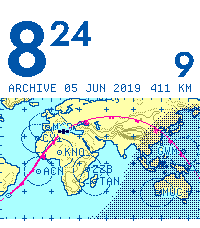
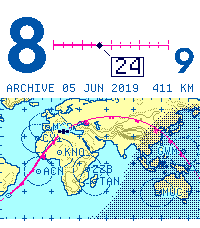
Move the minute into a radar-style data block; add dates
The minute no longer sits beside the hour. The body's place on the route
gives the analog reading. A leader line ties it to a boxed data block
with the minute in Departure Mono digits; the block can be switched off.
On the ISS band the hour runs on a railway track between its figures,
with the same data block. Zoomed views print the local date and its
day of the year in the margin.

Claude-Session: https://claude.ai/code/session_013jrbqnwLffJYPYurYaCgSZ

diff --git a/src/enroute-render.js b/src/enroute-render.js
@@ -43,7 +43,7 @@ const EARTH=6371,ORBIT=410,MASK=5*RAD;
 export const ACQUISITION=(Math.acos(EARTH*Math.cos(MASK)/(EARTH+ORBIT))-MASK)/RAD;
 export const FIGURE={hour:80,hourTwo:72,minute:36,next:36};
 // Chart lettering: Departure Mono, drawn on the display's own pixel grid.
-const LABEL=departure.regular;
+const LABEL=departure.regular,TAG=departure.double;
 
 function plot(buf,x,y,c){x=Math.round(x);y=Math.round(y);if(x<0||y<0||x>=W||y>=H)return;const i=(y*W+x)*3;buf[i]=c[0];buf[i+1]=c[1];buf[i+2]=c[2];}
 function segment(a,b,fn){
@@ -99,7 +99,7 @@ export function contourLevel(relief,land,i){
 
 const BAYER=[0,8,2,10,12,4,14,6,3,11,1,9,15,7,13,5];
 const HEXAGON=['..###..','.#...#.','#.....#','.#...#.','..###..'],TRIANGLE=['....#....','...#.#...','...#.#...','..#...#..','..#...#..','.#.....#.','#########'];
-export function renderEnroute({camera,ground,relief,light:zones,plate,epoch,timeZone,clock24}){
+export function renderEnroute({camera,ground,relief,light:zones,plate,epoch,timeZone,clock24,tag=true}){
   const pal=PLATES[plate],buf=new Uint8ClampedArray(W*H*3),mat=ground.material,sun=position('sun',Math.floor(epoch/MINUTE)*MINUTE).dir;
   const light=pal.night==='screen'?new Uint8Array(W*H):zones,land=mat.map(m=>m===LAND?1:0);
   const zoneAt=(x,y)=>light[Math.max(0,Math.min(H-1,Math.round(y)))*W+Math.max(0,Math.min(W-1,Math.round(x)))];
@@ -196,53 +196,88 @@ export function renderEnroute({camera,ground,relief,light:zones,plate,epoch,time
   }));
   symbol(HEXAGON,c0.x,c0.y);plot(buf,c0.x,c0.y,col(c0.x,c0.y));symbol(TRIANGLE,c1.x,c1.y-1);
   // The present: the body's own symbol on a knockout.
-  const body=position(camera.body,epoch),p=camera.project(body.lat,body.lon),mx=Math.round(p.x),my=Math.round(p.y),mk=ink('mark')(mx,my);
-  const disc=(r,fn)=>{const n=Math.ceil(r);for(let dy=-n;dy<=n;dy++)for(let dx=-n;dx<=n;dx++)if(dx*dx+dy*dy<=r*r)fn(mx+dx,my+dy,dx,dy);};
-  disc(6.6,clear);
-  if(camera.body==='sun'){disc(5.2,(x,y,dx,dy)=>{if(dx*dx+dy*dy>3.6*3.6)plot(buf,x,y,mk);});disc(1.5,(x,y)=>plot(buf,x,y,mk));}
+  const body=position(camera.body,epoch),p=camera.project(body.lat,body.lon),mx=Math.round(p.x),my=Math.round(p.y);
+  const disc=(cx,cy,r,fn)=>{const n=Math.ceil(r);for(let dy=-n;dy<=n;dy++)for(let dx=-n;dx<=n;dx++)if(dx*dx+dy*dy<=r*r)fn(cx+dx,cy+dy,dx,dy);};
+  const mk=ink('mark')(mx,my);
+  disc(mx,my,6.6,clear);
+  if(camera.body==='sun'){disc(mx,my,5.2,(x,y,dx,dy)=>{if(dx*dx+dy*dy>3.6*3.6)plot(buf,x,y,mk);});disc(mx,my,1.5,(x,y)=>plot(buf,x,y,mk));}
   else if(camera.body==='moon'){
     // The Moon in its calculated phase; a rim keeps a new Moon visible.
     const {fraction,waxing}=moonLight(epoch),r=5.2;
-    disc(r,(x,y,dx,dy)=>{const edge=Math.sqrt(Math.max(0,r*r-dy*dy)),side=waxing?dx:-dx;if(side>=(1-2*fraction)*edge||dx*dx+dy*dy>(r-1.2)**2)plot(buf,x,y,mk);});
+    disc(mx,my,r,(x,y,dx,dy)=>{const edge=Math.sqrt(Math.max(0,r*r-dy*dy)),side=waxing?dx:-dx;if(side>=(1-2*fraction)*edge||dx*dx+dy*dy>(r-1.2)**2)plot(buf,x,y,mk);});
   }else{
     for(let k=-5;k<=5;k++){plot(buf,mx+k,my,mk);if(Math.abs(k)>=3){plot(buf,mx+k,my-1,mk);plot(buf,mx+k,my+1,mk);}}
     for(let k=-2;k<=2;k++)for(let d=-1;d<=1;d++)plot(buf,mx+d,my+k,mk);
   }
-  // The time, set like a chart's maximum elevation figure: the hour large,
-  // its minutes raised and small. The next hour stands over its point.
+  // The hours stand over their stations: this hour large, the next smaller.
   const parts=clockParts(epoch,timeZone),h=Number(parts.h),hour=String(clock24?h:h%12||12),next=String(clock24?(h+1)%24:(h+1)%12||12);
-  const big=hour.length>1?FIGURE.hourTwo:FIGURE.hour,gap=4,width=runWidth(hour,big)+gap+runWidth(parts.m,FIGURE.minute);
-  const gx=Math.max(8,Math.min(W-8-width,Math.round(c0.x-runWidth(hour,big)/2)));
-  const gy=camera.world?Math.round((top-runHeight(big))/2):c0.y-26-runHeight(big);
-  const hourPixels=figurePixels(hour,big,gx,gy),minutePixels=figurePixels(parts.m,FIGURE.minute,gx+runWidth(hour,big)+gap,gy);
-  letter([...hourPixels,...minutePixels],ink('ink'));
-  const nw=runWidth(next,FIGURE.next),nx=Math.max(6,Math.min(W-6-nw,Math.round(c1.x-nw/2)));
-  const ny=camera.world?gy+runHeight(big)-runHeight(FIGURE.next):c1.y-10-runHeight(FIGURE.next);
-  const nextPixels=figurePixels(next,FIGURE.next,nx,ny);letter(nextPixels,ink('ink'));
-  // The ISS is an archived orbit: say so, with its altitude, in the margin.
+  const big=hour.length>1?FIGURE.hourTwo:FIGURE.hour,hw=runWidth(hour,big),nw=runWidth(next,FIGURE.next);
+  const gx=Math.max(8,Math.min(W-8-hw,Math.round(c0.x-hw/2))),gy=camera.world?Math.round((top-runHeight(big))/2)-4:c0.y-26-runHeight(big);
+  const nx=Math.max(6,Math.min(W-6-nw,Math.round(c1.x-nw/2))),ny=camera.world?gy+runHeight(big)-runHeight(FIGURE.next):c1.y-10-runHeight(FIGURE.next);
+  const hourPixels=figurePixels(hour,big,gx,gy),nextPixels=figurePixels(next,FIGURE.next,nx,ny);
+  letter(hourPixels,ink('ink'));letter(nextPixels,ink('ink'));
+  // The minute rides with the body in a data block, as a radar display tags
+  // a target: a leader line from the symbol to a boxed readout. It points
+  // toward the middle of the screen so it never leaves the chart.
+  let tagBox=null;
+  const dataBlock=(ax,ay,down,color,reach=12)=>{
+    const text=parts.m,tw=textWidth(TAG,text),bw=tw+5,bh=20,side=ax>W/2?-1:1;
+    const ex=ax+side*Math.min(reach,12),ey=ay+(down?reach:-reach),bx=side>0?ex:ex-bw+1,by=down?ey:ey-bh+1;
+    const box={x:Math.max(2,Math.min(W-2-bw,bx)),y:by,w:bw,h:bh};
+    segment({x:ax+side*5,y:ay+(down?5:-5)},{x:ex,y:ey},(x,y)=>{clear(x+1,y);clear(x-1,y);});
+    segment({x:ax+side*5,y:ay+(down?5:-5)},{x:ex,y:ey},(x,y)=>plot(buf,x,y,color));
+    for(let y=box.y-1;y<=box.y+box.h;y++)for(let x=box.x-1;x<=box.x+box.w;x++)clear(x,y);
+    for(let x=box.x;x<box.x+box.w;x++){plot(buf,x,box.y,color);plot(buf,x,box.y+box.h-1,color);}
+    for(let y=box.y;y<box.y+box.h;y++){plot(buf,box.x,y,color);plot(buf,box.x+box.w-1,y,color);}
+    for(const [a,b] of textPixels(TAG,text,box.x+3,box.y+box.h-3))plot(buf,a,b,color);
+    tagBox=box;
+  };
   if(camera.world){
-    const date=new Date(epoch),month='JAN FEB MAR APR MAY JUN JUL AUG SEP OCT NOV DEC'.split(' ')[date.getUTCMonth()];
-    const archive=`ARCHIVE ${String(date.getUTCDate()).padStart(2,'0')} ${month} ${date.getUTCFullYear()}`,altitude=`${Math.round(body.altitude)} KM`;
-    letter(textPixels(LABEL,archive,8,top-6),()=>pal.spaceInk,0);
-    letter(textPixels(LABEL,altitude,W-8-textWidth(LABEL,altitude),top-6),()=>pal.spaceInk,0);
+    // The ISS hour as a railway between its two figures: ties every five
+    // minutes, bold where the hour has run, a diamond at the present.
+    const left=Math.min(gx+hw,nx+nw)+7,right=Math.max(gx,nx)-7,ty=gy+Math.round(runHeight(big)/2),forward=nx>gx;
+    const f=Math.max(0,Math.min(1,(epoch-s0.epoch)/(60*MINUTE))),at=m=>forward?left+(right-left)*m/60:right-(right-left)*m/60;
+    const tx=Math.round(at(f*60)),rc=ink('route');
+    for(let x=left;x<=right;x++){plot(buf,x,ty,rc(x,ty));if(forward?x<=tx:x>=tx)plot(buf,x,ty-1,rc(x,ty));}
+    for(let m=0;m<=60;m+=5){const x=Math.round(at(m)),len=m%15===0?4:2;for(let d=1;d<=len;d++){plot(buf,x,ty-1-d,rc(x,ty));plot(buf,x,ty+d,rc(x,ty));}}
+    for(let dy=-3;dy<=3;dy++)for(let dx=-3;dx<=3;dx++){const r=Math.abs(dx)+Math.abs(dy);if(r<=4)clear(tx+dx,ty+dy);if(r<=3)plot(buf,tx+dx,ty+dy,mk);}
+    if(tag)dataBlock(tx,ty,true,ink('mark')(tx,ty));
+  }else if(tag)dataBlock(mx,my,true,mk,20);
+  // Margins: the ISS archive and altitude; otherwise the date in the chart's
+  // own terms, with the day of the year as mission control kept it.
+  const margin=(l,r,y,color)=>{letter(textPixels(LABEL,l,6,y),color,1);letter(textPixels(LABEL,r,W-6-textWidth(LABEL,r),y),color,1);};
+  const MONTHS='JAN FEB MAR APR MAY JUN JUL AUG SEP OCT NOV DEC'.split(' ');
+  if(camera.world){
+    const date=new Date(epoch);
+    margin(`ARCHIVE ${String(date.getUTCDate()).padStart(2,'0')} ${MONTHS[date.getUTCMonth()]} ${date.getUTCFullYear()}`,`${Math.round(body.altitude)} KM`,top-6,()=>pal.spaceInk);
+  }else{
+    const d=localDate(epoch,timeZone);
+    margin(`${String(d.day).padStart(2,'0')} ${MONTHS[d.month-1]} ${d.year}`,`DAY ${String(d.dayOfYear).padStart(3,'0')}`,H-5,ink('ink'));
   }
   return {buf,marker:{x:p.x,y:p.y,lat:body.lat,lon:body.lon},stations,
-    figure:{hour,minute:parts.m,next,box:bounds([...hourPixels,...minutePixels]),nextBox:bounds(nextPixels)},rose:camera.world?null:{...c0,r:20}};
+    figure:{hour,minute:parts.m,next,box:bounds(hourPixels),nextBox:bounds(nextPixels),tag:tagBox},rose:camera.world?null:{...c0,r:20}};
+}
+// The calendar date where the watch is, and its day of the year.
+const dateFormats=new Map();
+export function localDate(epoch,timeZone){
+  if(!dateFormats.has(timeZone))dateFormats.set(timeZone,new Intl.DateTimeFormat('en-GB',{timeZone,year:'numeric',month:'numeric',day:'numeric'}));
+  const parts=Object.fromEntries(dateFormats.get(timeZone).formatToParts(new Date(epoch)).map(p=>[p.type,Number(p.value)]));
+  return {year:parts.year,month:parts.month,day:parts.day,dayOfYear:Math.round((Date.UTC(parts.year,parts.month-1,parts.day)-Date.UTC(parts.year,0,0))/86400000)};
 }
 
 // Caches follow the clock: map and relief by the hour, light by the minute.
 export class EnrouteRenderer{
   constructor(atlas,meters){this.atlas=atlas;this.meters=meters;this.stats={geometryBuilds:0,lightBuilds:0,renders:0};}
   render(state){
-    const {body,epoch,timeZone,clock24,plate}=state,start=civilHour(epoch,timeZone);
+    const {body,epoch,timeZone,clock24,plate}=state,tag=state.tag!==false,start=civilHour(epoch,timeZone);
     const geometryKey=`${body}/${start}`,lightKey=`${geometryKey}/${Math.floor(epoch/MINUTE)}`;
     if(this.geometryKey!==geometryKey){
       this.camera=chartCamera(body,start);this.ground=groundLayer(this.camera,this.atlas);this.relief=reliefLayer(this.camera,this.meters);
       this.geometryKey=geometryKey;this.stats.geometryBuilds++;
     }
     if(this.lightKey!==lightKey){this.light=lightLayer(this.ground,epoch);this.lightKey=lightKey;this.stats.lightBuilds++;}
-    const sceneKey=`${lightKey}/${timeZone}/${clock24}/${plate}`;if(this.sceneKey===sceneKey)return this.last;
-    const out=renderEnroute({camera:this.camera,ground:this.ground,relief:this.relief,light:this.light,plate,epoch,timeZone,clock24});
+    const sceneKey=`${lightKey}/${timeZone}/${clock24}/${plate}/${tag}`;if(this.sceneKey===sceneKey)return this.last;
+    const out=renderEnroute({camera:this.camera,ground:this.ground,relief:this.relief,light:this.light,plate,epoch,timeZone,clock24,tag});
     const zones=[0,0,0];for(const z of this.light)zones[z]++;
     this.sceneKey=sceneKey;this.stats.renders++;
     const rgba=new Uint8ClampedArray(W*H*4);for(let i=0;i<W*H;i++){rgba.set(out.buf.subarray(i*3,i*3+3),i*4);rgba[i*4+3]=255;}

diff --git a/index.html b/index.html
@@ -9,9 +9,9 @@
 <fieldset><legend>Follow</legend><div class="segmented"><button data-body="sun" aria-pressed="true">Sun</button><button data-body="moon" aria-pressed="false">Moon</button><button data-body="iss" aria-pressed="false">ISS archive</button></div><p class="help" id="body-note"></p></fieldset>
 <fieldset id="moon-light"><legend>Moonlight</legend><div class="segmented"><button data-observation="day" aria-pressed="true">By day</button><button data-observation="dusk" aria-pressed="false">Nightfall</button><button data-observation="night" aria-pressed="false">By night</button></div><p class="help">The same Moon over three evenings. On the paper plates, night is a printed dot tint that deepens through civil twilight.</p></fieldset>
 <fieldset><legend>Plate</legend><div id="enroute-plates" class="theme-options"></div></fieldset>
-<fieldset><legend>Read the chart</legend><p class="help">The large figure is the hour and the raised figure its minutes, set like a chart’s maximum elevation figure. The compass rose marks this hour’s station; the open triangle is the next hour’s reporting point. The magenta line is the route, bold behind the marker and fine ahead, with the quarter hours marked. Contours fall every 1,000 m, dotted at 500 m; offshore, the dotted blue line is the 200 m edge of the continental shelf. Three-letter codes are the tracking stations of NASA’s Mercury and Apollo networks.</p></fieldset>
-<details class="art-options"><summary>Clock</summary><div><label class="select-label" for="enroute-zone">Clock zone<select id="enroute-zone"><option value="America/New_York">Eastern time</option><option value="UTC">UTC</option><option value="Europe/London">London</option><option value="Asia/Kolkata">Kolkata</option></select></label><label class="art-checkbox"><input type="checkbox" id="enroute-24"> 24-hour figures</label></div></details><div class="art-study-date"><span id="enroute-date"></span><span>FROZEN STUDY</span></div></aside></section>
+<fieldset><legend>Read the chart</legend><p class="help">The large figure is this hour and the small one the next. The symbol between them is the present: its place on the route is the minute, read like a hand. A leader line ties it to a boxed data block with the minute in digits, the way a radar display tags a target; it can be switched off under Clock. The compass rose marks this hour’s station; the open triangle is the next hour’s reporting point. The magenta line is the route, bold behind the marker and fine ahead, with the quarter hours marked. Contours fall every 1,000 m, dotted at 500 m; offshore, the dotted blue line is the 200 m edge of the continental shelf. Three-letter codes are the tracking stations of NASA’s Mercury and Apollo networks. The margin carries the date and its day of the year.</p></fieldset>
+<details class="art-options"><summary>Clock</summary><div><label class="select-label" for="enroute-zone">Clock zone<select id="enroute-zone"><option value="America/New_York">Eastern time</option><option value="UTC">UTC</option><option value="Europe/London">London</option><option value="Asia/Kolkata">Kolkata</option></select></label><label class="art-checkbox"><input type="checkbox" id="enroute-24"> 24-hour figures</label><label class="art-checkbox"><input type="checkbox" id="enroute-tag" checked> Minute data block</label></div></details><div class="art-study-date"><span id="enroute-date"></span><span>FROZEN STUDY</span></div></aside></section>
 <section class="compare"><div class="section-heading"><p class="eyebrow">AT READING SIZE</p><p>One display pixel per pixel. The same minute on each plate.</p></div><div id="enroute-proofs" class="comparison-grid"></div></section>
-<section class="reading art-reading"><article><p class="eyebrow">THE CHART</p><h2>Real ground, lightly drawn.</h2><p>Relief comes from NOAA’s ETOPO1 and the USGS GMTED2010 elevation models, generalized and contoured like a jet navigation chart. The continental shelf edge is the real 200 m depth line. Small crosses mark every five degrees, and degree ticks run around the edge like a neatline.</p></article><article><p class="eyebrow">THE ROUTE</p><h2>Two fixes and a magenta line.</h2><p>This hour is a VOR in its compass rose; the next is a reporting point. The route is the magenta line pilots follow on every modern display. The time borrows the chart’s maximum elevation figure: the hour large, its minutes raised.</p></article><article><p class="eyebrow">THE NETWORK</p><h2>Where the astronauts were heard.</h2><p>Codes like TAN, CRO and GDS mark stations of the Mercury and Apollo tracking networks. For the ISS, each carries its acquisition circle, the reach of a low orbit, as drawn on the world maps of the first mission control rooms.</p></article></section>
+<section class="reading art-reading"><article><p class="eyebrow">THE CHART</p><h2>Real ground, lightly drawn.</h2><p>Relief comes from NOAA’s ETOPO1 and the USGS GMTED2010 elevation models, generalized and contoured like a jet navigation chart. The continental shelf edge is the real 200 m depth line. Small crosses mark every five degrees, and degree ticks run around the edge like a neatline.</p></article><article><p class="eyebrow">THE ROUTE</p><h2>Two fixes and a magenta line.</h2><p>This hour is a VOR in its compass rose; the next is a reporting point. The route is the magenta line pilots follow on every modern display. The hours stand over their fixes; the minute travels between them in a radar-style data block on a leader line.</p></article><article><p class="eyebrow">THE NETWORK</p><h2>Where the astronauts were heard.</h2><p>Codes like TAN, CRO and GDS mark stations of the Mercury and Apollo tracking networks. For the ISS, each carries its acquisition circle, the reach of a low orbit, as drawn on the world maps of the first mission control rooms.</p></article></section>
 <details class="technical"><summary>About this working study</summary><div><p>This is a browser design study, not an installable watchface. Every watch pixel is one of the display’s 64 RGB222 colors. The map is north-up and equidistant cylindrical; for the Sun and Moon the hour’s two stations sit 128 pixels apart, and the ISS, which travels about 240° of longitude in an hour, is shown on a world band. Scenes are frozen until you interact: there is no animation loop, polling, geolocation or sensor use.</p><p>Coastlines are Natural Earth 1:50m land. Relief is a quarter-degree grid built from the AWS Open Data Terrain Tiles at zoom 3, whose sources there are NOAA ETOPO1 and USGS GMTED2010, both public domain; heights are smoothed before contouring and are not for navigation. Day, civil twilight and night come from the calculated Sun at the selected minute. Tracking-station positions are approximate, from public histories of the networks. Acquisition circles show where a 410 km orbit rises five degrees above each station’s horizon, about 15.6° of arc.</p><p>Sun and Moon positions come from Astronomy Engine. The ISS uses a bounded June 5, 2019 archive from Satellite.js and is not a live prediction. Figures are Jost, after Futura; chart lettering is Departure Mono by Helena Zhang; headlines are Michroma, after Microgramma. All three are SIL OFL 1.1. <a href="./NOTICE.txt">Sources and credits</a>.</p><p id="enroute-diagnostics"></p><p>Other studies: <a href="./study-05.html">chart</a> · <a href="./study-04.html">Shorelight</a> · <a href="./study-03.html">two-ink atlas</a> · <a href="./study-02.html">sculptural globe</a> · <a href="./study-01.html">orbital explorer</a>.</p></div></details>
 </main><footer class="page-footer"><span>GROUNDTRACK / STUDY 06</span><span>CLEARED DIRECT TO THE NEXT HOUR.</span></footer><script type="module" src="/src/enroute-app.js"></script></body></html>

diff --git a/src/enroute-app.js b/src/enroute-app.js
@@ -11,7 +11,7 @@ const NOTES={
   moon:'The ground directly beneath the Moon. It also runs west, a little more slowly than the Sun.',
   iss:'An archived orbit from 5 June 2019. The station laps most of the world in an hour, so the whole world is the chart.'
 };
-const state={body:'sun',observation:'day',epoch:DEMOS.sun,timeZone:'America/New_York',clock24:false,plate:'enroute'};
+const state={body:'sun',observation:'day',epoch:DEMOS.sun,timeZone:'America/New_York',clock24:false,plate:'enroute',tag:true};
 let main,studyEpoch=state.epoch;
 const proofs={};
 function paint(canvas,buf){
@@ -20,12 +20,12 @@ function paint(canvas,buf){
 }
 function render(){
   const r=main.render(state);$('enroute-watch').getContext('2d').putImageData(new ImageData(r.rgba,W,H),0,0);
-  for(const plate of Object.keys(PLATES))paint(proofs[plate],plate===state.plate?r.buf:renderEnroute({camera:main.camera,ground:main.ground,relief:main.relief,light:main.light,plate,epoch:state.epoch,timeZone:state.timeZone,clock24:state.clock24}).buf);
+  for(const plate of Object.keys(PLATES))paint(proofs[plate],plate===state.plate?r.buf:renderEnroute({camera:main.camera,ground:main.ground,relief:main.relief,light:main.light,plate,epoch:state.epoch,timeZone:state.timeZone,clock24:state.clock24,tag:state.tag}).buf);
   for(const key of ['body','observation','plate'])document.querySelectorAll(`[data-${key}]`).forEach(b=>b.setAttribute('aria-pressed',String(b.dataset[key]===state[key])));
   document.querySelectorAll('[data-observation]').forEach(b=>b.disabled=state.body!=='moon');$('moon-light').classList.toggle('muted',state.body!=='moon');
   $('enroute-minute').value=Math.round((state.epoch-r.start)/MINUTE);$('enroute-time').textContent=r.time;
   $('range-start').textContent=clockParts(r.start,state.timeZone).text;$('range-end').textContent=clockParts(r.start+60*MINUTE,state.timeZone).text;
-  $('enroute-zone').value=state.timeZone;$('enroute-24').checked=state.clock24;
+  $('enroute-zone').value=state.timeZone;$('enroute-24').checked=state.clock24;$('enroute-tag').checked=state.tag;
   $('enroute-date').textContent=new Date(state.epoch).toISOString().slice(0,10);$('body-note').textContent=NOTES[state.body];
   const lat=r.marker.lat,lon=((r.marker.lon+540)%360)-180,place=`${Math.abs(lat).toFixed(1)}°${lat<0?'S':'N'} ${Math.abs(lon).toFixed(1)}°${lon<0?'W':'E'}`;
   const heard=r.stations.length?` · stations ${r.stations.map(s=>s.code).join(', ')}`:'';
@@ -62,5 +62,6 @@ try{
   $('enroute-reset').addEventListener('click',()=>{state.epoch=studyEpoch;render();});
   $('enroute-zone').addEventListener('change',()=>{state.timeZone=$('enroute-zone').value;render();});
   $('enroute-24').addEventListener('change',()=>{state.clock24=$('enroute-24').checked;render();});
+  $('enroute-tag').addEventListener('change',()=>{state.tag=$('enroute-tag').checked;render();});
   render();window.groundtrackEnroute={ready:true,state,main,render,demos:DEMOS,observations:OBSERVATIONS};
 }catch(error){$('enroute-caption').textContent=`The chart could not load: ${error.message}. Please reload.`;console.error(error);}

diff --git a/docs/STUDY-06.md b/docs/STUDY-06.md
@@ -11,11 +11,12 @@ The Study 05 chart, redrawn in the language of aeronautical charts and of NASA's
 - **Graticule.** Small crosses every 5° (30° on the ISS world band). Degree ticks run around the edge of the map like a chart's neatline, with a longer tick every 5°.
 - **The route.** The magenta line, which pilots follow on every glass cockpit. It is bold behind the marker, fine ahead and dashed before and after the hour. Ticks mark five minutes, with longer ticks labelled 15, 30 and 45 at the quarters, as on a plotted ground track.
 - **Fixes.** This hour's station is a VOR: a hexagon inside a compass rose, with 30° ticks, longer cardinal ticks and a north arrowhead. The next hour is an open triangle, a reporting point. The map is north-up, so the rose shows true north, not magnetic variation.
-- **The time.** It borrows the maximum elevation figure printed in each quadrangle of a sectional chart: the hour large and its minutes raised and small. The next hour stands over its reporting point in the same figures, smaller. It is an homage, so the figure shows the time, not an elevation.
+- **The time.** The hour stands large over this hour's station and the next hour smaller over its reporting point. The minute is not attached to the hour: it travels between them. The body's place on the route is the analog reading. A leader line ties the body to a boxed **data block** with the minute in Departure Mono digits, the way a radar display tags a target with a leader line and a data block. The block always points toward the middle of the screen, drops below the route's quarter marks, and can be switched off to leave a purely analog read. On the ISS band the hour runs on a **railway** between the two figures instead: a line with ties every five minutes, bold where the hour has run, a diamond at the present and the same data block beneath it.
+- **Date.** The zoomed views print the local date and its day of the year in the bottom margin (`27 SEP 2026 · DAY 270`). The day of the year is how Mission Control's clocks counted days. The ISS margin keeps its archive date and altitude.
 - **The present.** The body's own symbol: ☉ for the Sun, the Moon in its calculated phase, or a small station for the ISS.
 - **The network.** Twenty-four stations of the Mercury (1961–63) and Apollo (1967–75) tracking networks, drawn as circled points with their network codes. Examples include TAN (Tananarive, Madagascar), ZZB (Zanzibar), CRO (Carnarvon) and GDS (Goldstone). When labels would collide, the station earlier in the list wins.
 - **Acquisition circles.** On the ISS world band, each station also carries the circle within which a 410 km orbit rises 5° above its horizon, about 15.6° of arc. The circles are computed on the sphere, so they widen toward the poles, as they did on the Mercator plotboards.
-- **Type.** The figures are set in Jost (SIL OFL 1.1), a revival of Futura, the face of the Apollo 11 plaque and many mission patches. Jost replaced Fira Sans after a side-by-side test on the face. Barlow (a DIN-style face) was the close second; Michroma was too wide for the figures at this size. The chart lettering (station codes, quarter-hour marks and margin notes) is [Departure Mono](https://github.com/rektdeckard/departure-mono) (SIL OFL 1.1). It is a pixel face drawn on an 11 px grid, so at 11 px every pixel is fully on or off. A double-size Departure minute was tried, but its 2 px strokes looked spindly beside the hour. On the page, headlines use Michroma (after Microgramma, the lettering of 1960s space hardware), text uses Jost, and small type uses Departure Mono.
+- **Type.** The figures are set in Jost (SIL OFL 1.1), a revival of Futura, the face of the Apollo 11 plaque and many mission patches. Jost replaced Fira Sans after a side-by-side test on the face. Barlow (a DIN-style face) was the close second; Michroma was too wide for the figures at this size. The chart lettering (station codes, quarter-hour marks and margin notes) is [Departure Mono](https://github.com/rektdeckard/departure-mono) (SIL OFL 1.1). It is a pixel face drawn on an 11 px grid, so at 11 px every pixel is fully on or off. A double-size Departure minute set directly after the hour looked spindly, but the same digits work well as the separate data block. On the page, headlines use Michroma (after Microgramma, the lettering of 1960s space hardware), text uses Jost, and small type uses Departure Mono.
 - **Honest margins.** The ISS view states `ARCHIVE 05 JUN 2019` and the station's altitude, because it is a bounded archive, not live data.
 - **Night.** The paper plates print night as a regular dot screen under every symbol. The screen deepens from nothing at sunset to 25% at the end of civil twilight, which is how a printed chart would overprint a tint. The Plotboard keeps flat light zones.
 
